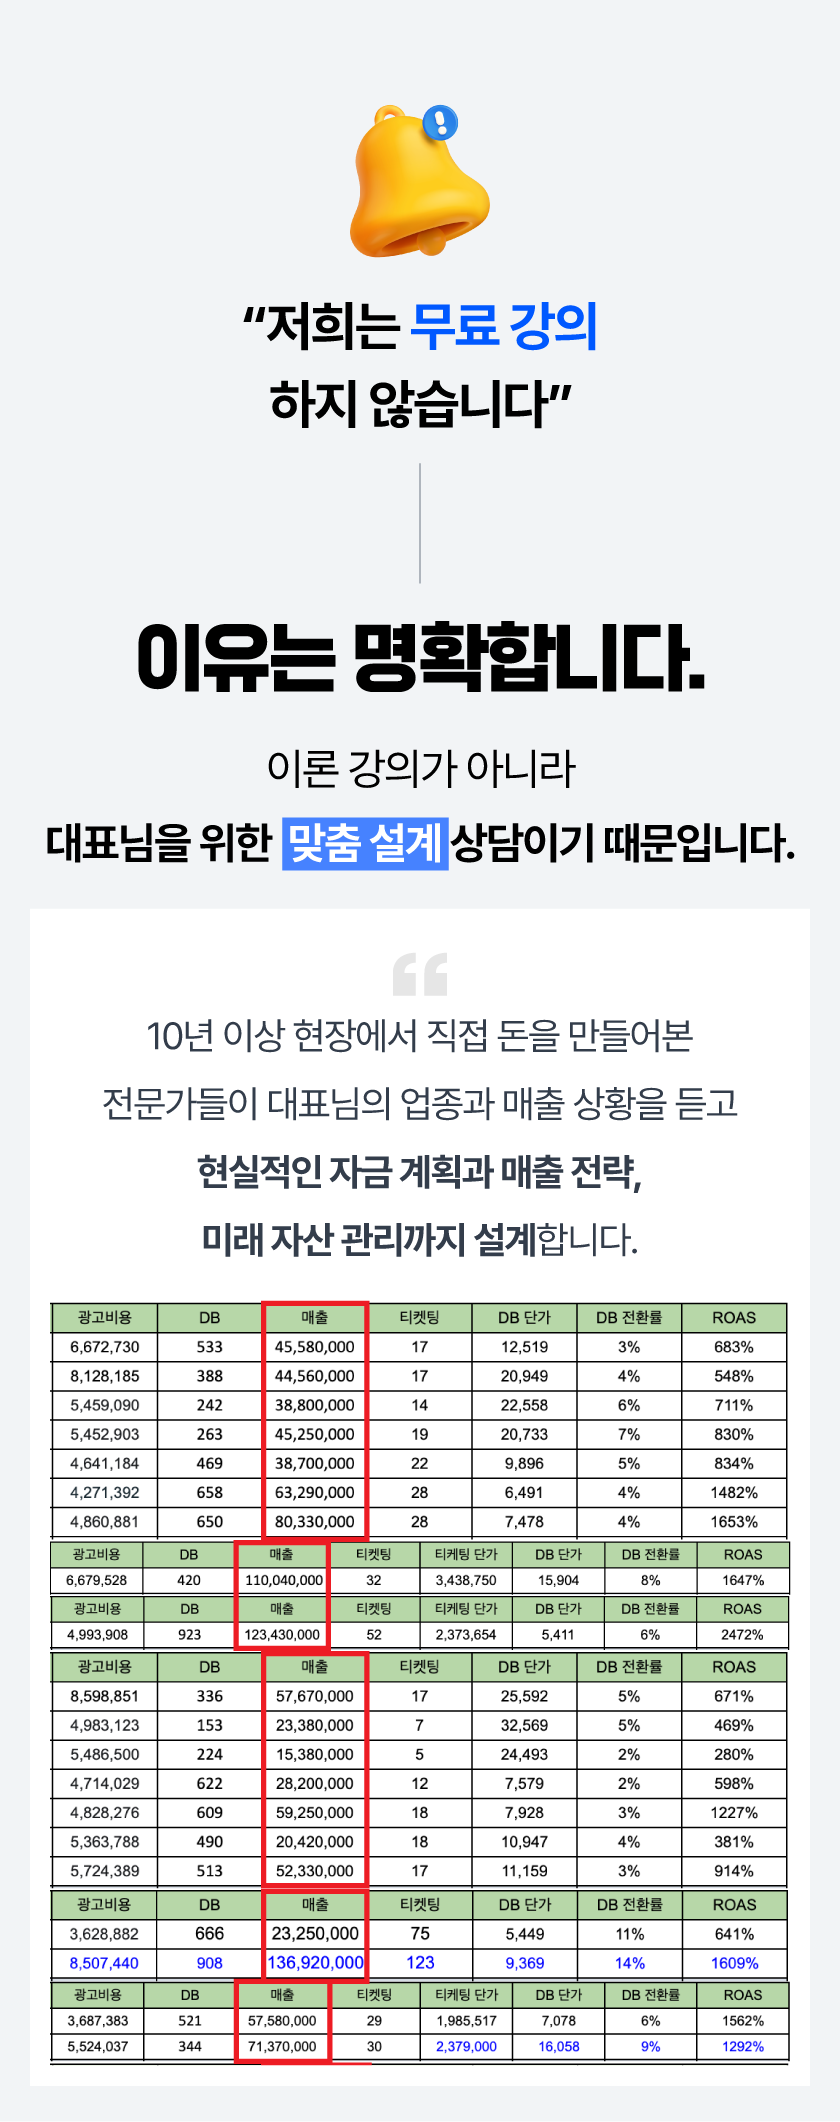
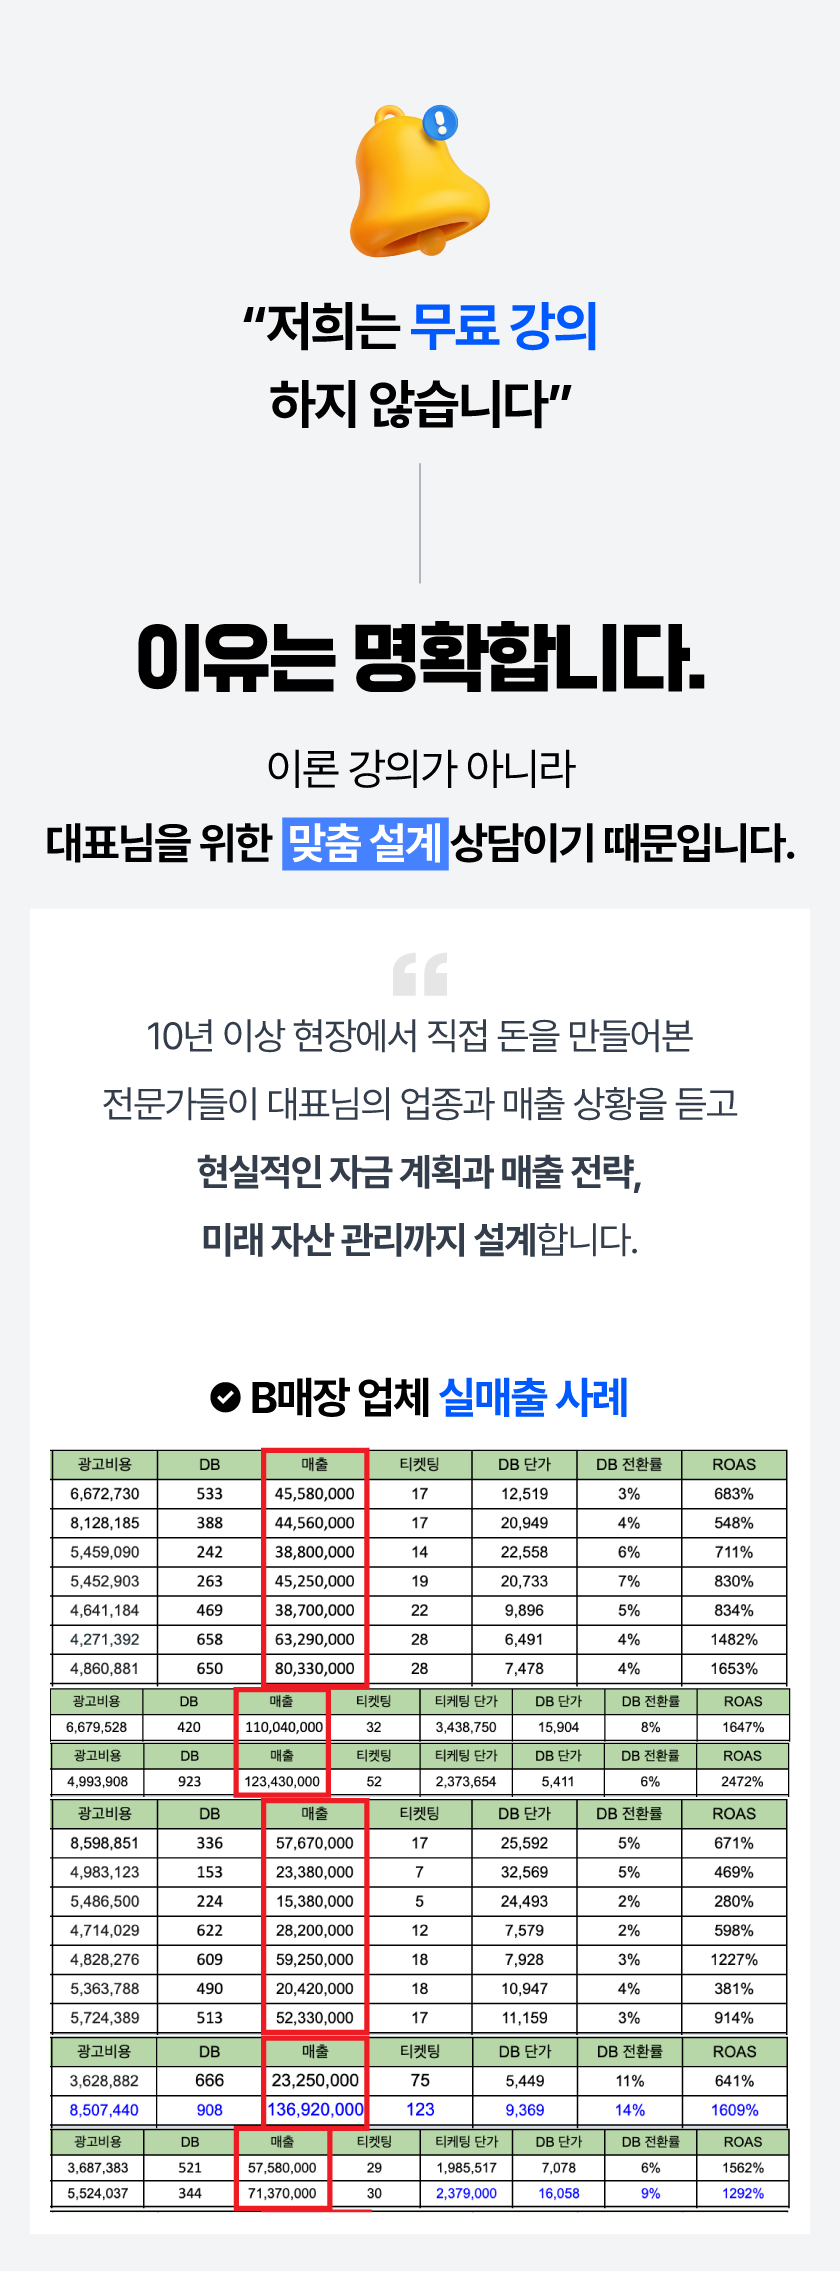
.

Changed region(s): [[0.0619, 0.2488, 0.9595, 0.9953], [0.2786, 0.0311, 0.7119, 0.2177]]

diff --git a/template/money_class/money.html b/template/money_class/money.html
@@ -42,7 +42,7 @@
                 />
                 <img
                   class="com_img sa sa-up"
-                  src="https://winawork.github.io/images/250714_03.gif"
+                  src="https://winawork.github.io/images/money_250723_06.gif"
                 />
                 <img
                   class="com_img sa sa-up"
@@ -81,10 +81,6 @@
                 <img
                   class="com_img sa sa-up"
                   src="https://winawork.github.io/images/money_250723_02.png"
-                />
-                <img
-                  class="com_img sa sa-up"
-                  src="https://winawork.github.io/images/money_250723_03.png"
                 />
 
                 <img
